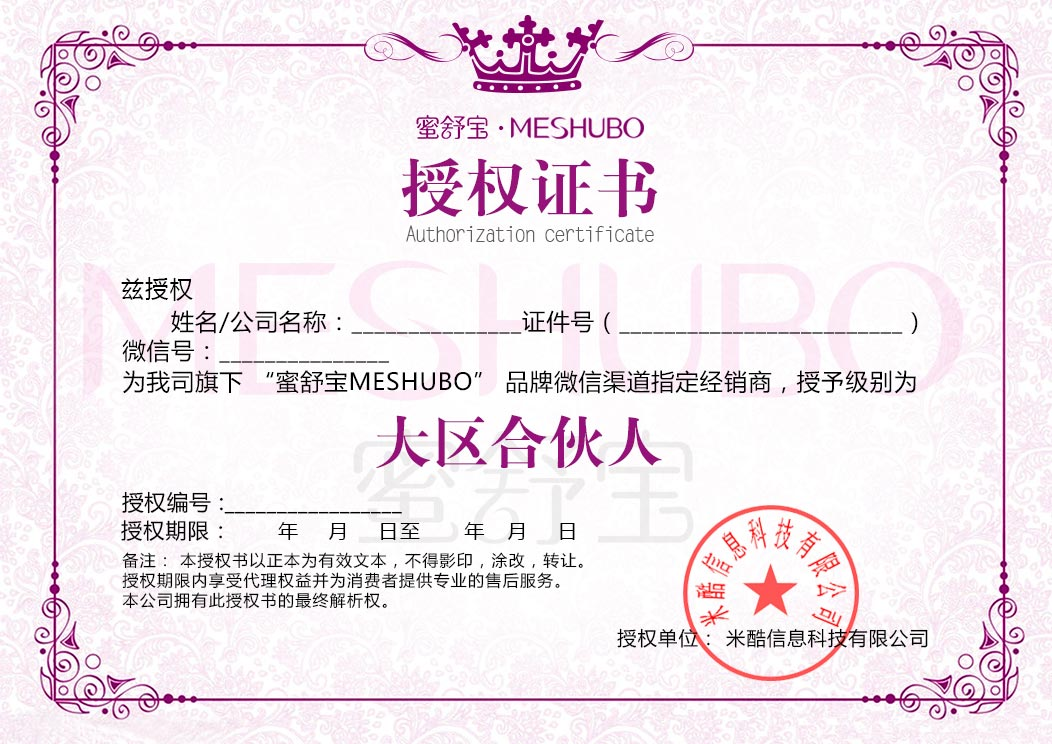
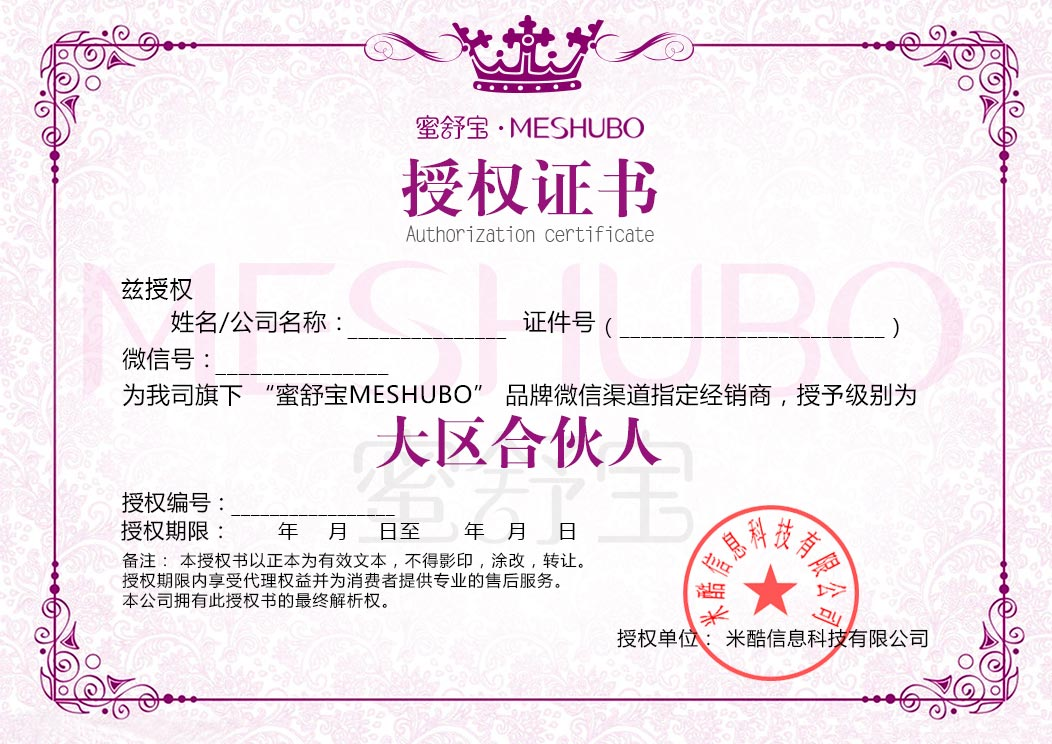
修改授权书

diff --git a/Uapp/Admin/View/Default/DeliverGoods/showDetail.html b/Uapp/Admin/View/Default/DeliverGoods/showDetail.html
@@ -4,7 +4,7 @@
 <p class="text-justify">发货单号:<{$order_info.order_sn}></p>
 <p class="text-justify">发货人:<{$order_info.admin_name}></p>
 <p class="text-justify">发货人微信号:<{$admin_info.weixin}></p>
-<p class="text-justify">收货人:<{$order_info.consignee}></p>
+<p class="text-justify">收货人:<{$order_info.member_name}></p>
 <p class="text-justify">收货人微信号:<{$member_info.weixin}></p>
 <p class="text-justify">发货时间:<{$order_info.add_time}></p>
 <div class="panel panel-default" style="margin-top: 20px;">

diff --git a/Uapp/Admin/View/Default/DeliverGoods/index.html b/Uapp/Admin/View/Default/DeliverGoods/index.html
@@ -46,7 +46,7 @@
         	<volist name="list" id="vo">
 				<tr>
 					<th scope="row"><{$vo.order_sn}></th>
-					<td><{$vo.consignee}></td>
+					<td><{$vo.member_name}></td>
 					<td><{$vo.admin_name}></td>
 					<td><{$vo.add_time}></td>
 					<td>

diff --git a/Uapp/Common/Common/function.php b/Uapp/Common/Common/function.php
@@ -96,8 +96,8 @@
 
         $Image->text($auth_num,$font_path.$font,16,'#000000',array(340,590),-100,0) //生成授权号
                 ->text($name,$font_path.$font,17,'#000000',array(450,405),-100,0) //生成名字
-                ->text($new_card_num,$font_path.$font,18,'#000000',array(750,410),-100,0) //生成身份证号
-                ->text($weixin,$font_path.$font,18,'#000000',array(328,436),-100,0) //生成微信号
+                ->text($new_card_num,$font_path.$font,18,'#000000',array(730,410),-100,0) //生成身份证号
+                ->text($weixin,$font_path.$font,18,'#000000',array(328,448),-100,0) //生成微信号
 //                ->text($lv_name,$font_path.$font,17,'#000000',array(308,560),-100,0) //生成代理级别
                 ->text($start_time[0],$font_path.$font,13,'#000000',array(335,625),-100,0) //生成开始年
                 ->text($start_time[1],$font_path.$font,13,'#000000',array(405,625),-100,0) //生成开始月
